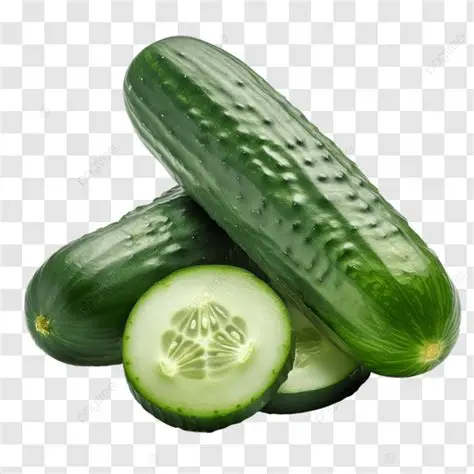
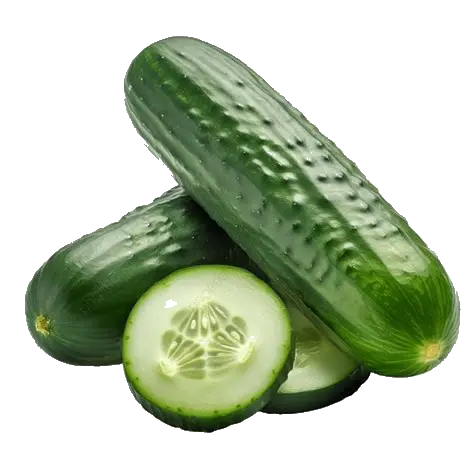
Remove checkerboard background from pepino PNG assets

diff --git a/index.html b/index.html
@@ -10,7 +10,7 @@
   <link rel="preconnect" href="https://fonts.googleapis.com" />
   <link rel="preconnect" href="https://fonts.gstatic.com" crossorigin />
   <link href="https://fonts.googleapis.com/css2?family=Syne:wght@700;800&family=Manrope:wght@400;500;600;700&display=swap" rel="stylesheet" />
-  <link rel="stylesheet" href="css/styles.css?v=43" />
+  <link rel="stylesheet" href="css/styles.css?v=44" />
 </head>
 <body>
   <div class="noise" aria-hidden="true"></div>
@@ -244,12 +244,12 @@
     <span>Saia da Zona · 3 anos</span>
   </footer>
 
-  <script src="js/config.js?v=43"></script>
-  <script src="js/questions.js?v=43"></script>
-  <script src="js/countdown.js?v=43"></script>
-  <script src="js/weather.js?v=43"></script>
-  <script src="js/trail-game.js?v=43"></script>
-  <script src="js/pack-game.js?v=43"></script>
-  <script src="js/app.js?v=43"></script>
+  <script src="js/config.js?v=44"></script>
+  <script src="js/questions.js?v=44"></script>
+  <script src="js/countdown.js?v=44"></script>
+  <script src="js/weather.js?v=44"></script>
+  <script src="js/trail-game.js?v=44"></script>
+  <script src="js/pack-game.js?v=44"></script>
+  <script src="js/app.js?v=44"></script>
 </body>
 </html>

diff --git a/js/pack-game.js b/js/pack-game.js
@@ -51,8 +51,10 @@
     const max = Math.max(r, g, b);
     const min = Math.min(r, g, b);
     const sat = max === 0 ? 0 : (max - min) / max;
-    // fundo branco / off-white / cinza bem claro
-    return max >= 210 && sat <= 0.12;
+    // branco / off-white / xadrez falso de transparência
+    if (max >= 205 && sat <= 0.14) return true;
+    if (sat <= 0.1 && min >= 160 && max <= 235) return true;
+    return false;
   }
 
   function punchWhiteBackground(img) {
